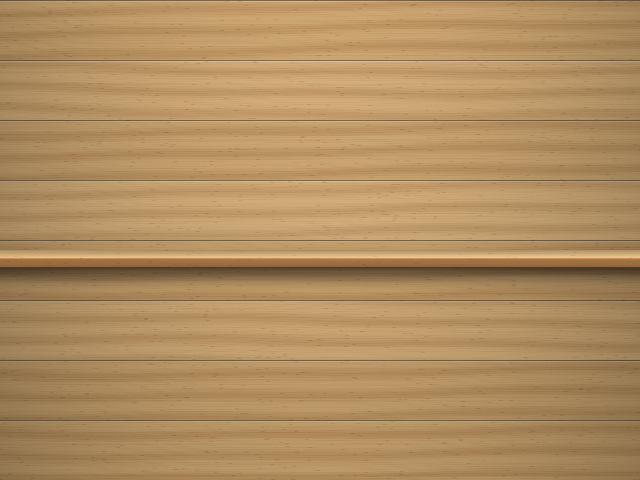
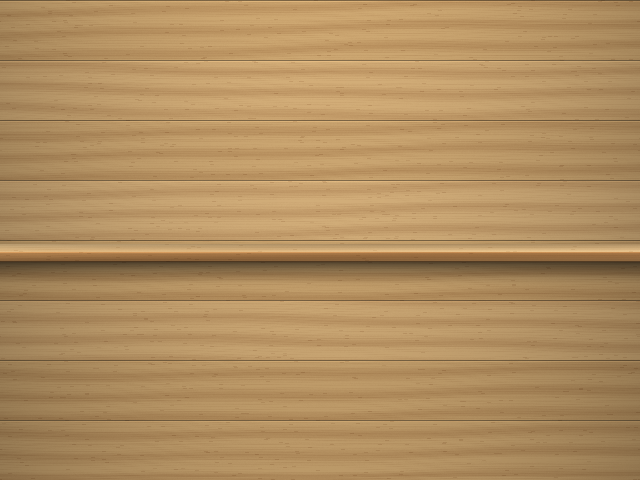
Themes: Bookshelf's shelves sit under Home's rows again (the covers moved down to y 30 and are drawn 104 high, the channels' rows too) and the shelf view's wall has its shelf where the view's plank is (kShelfY, 248), now named in make_bookshelf_theme.py, which also keeps shelf_grain in its theme.ini

Changed region(s): [[0.0, 0.5, 1.0, 0.5938]]

diff --git a/tools/make_bookshelf_theme.py b/tools/make_bookshelf_theme.py
@@ -39,10 +39,13 @@ RNG = np.random.default_rng(1206)
 # shelf view's walls get the same planks.
 WALL_STATE = {}
 
-# Home's cover rows (wii/menu/gui_gamegrid.cpp: covers 80x112, top 16, 14 apart).
-COVER_ROW_BOTTOMS = (16 + 112, 16 + 112 + 14 + 112)
-# Home's channels: three rows of 84 from y 24, 12 apart (wii/menu/gui_gamegrid.cpp).
-CHANNEL_ROW_BOTTOMS = (24 + 84, 24 + 84 + 12 + 84, 24 + 3 * 84 + 2 * 12)
+# Home's cover rows (wii/menu/gui_gamegrid.cpp: covers 80x112 drawn at
+# kCoverScale, 104 high, from y 30, 12 apart).
+COVER_ROW_BOTTOMS = (30 + 104, 30 + 104 + 12 + 104)
+# Home's channels: three rows of 84 from y 30, 12 apart (wii/menu/gui_gamegrid.cpp).
+CHANNEL_ROW_BOTTOMS = (30 + 84, 30 + 84 + 12 + 84, 30 + 3 * 84 + 2 * 12)
+# The shelf view's plank (kShelfY in wii/menu/gui_shelf.cpp).
+SHELF_VIEW_BOTTOM = 248
 
 INI = """[theme]
 name = Bookshelf
@@ -50,6 +53,7 @@ author = RiftWii
 
 [shape]
 corners = 1
+shelf_grain = yes
 gloss = yes
 # The HOME Menu as iOS 6 drew things (iBooks kept its books on a wooden shelf).
 home_menu = ios6
@@ -282,7 +286,7 @@ def main():
     # was for each wall), only the lower shelf.
     for name, w in (("background_shelf.png", 640), ("background_shelf_wide.png", 856)):
         RNG.bit_generator.state = WALL_STATE[w]
-        Image.fromarray(background(w, shelves=COVER_ROW_BOTTOMS[1:])).save(OUT / name, optimize=True)
+        Image.fromarray(background(w, shelves=(SHELF_VIEW_BOTTOM,))).save(OUT / name, optimize=True)
     # And with none, for the other screens.
     for name, w in (("background_plain.png", 640), ("background_plain_wide.png", 856)):
         RNG.bit_generator.state = WALL_STATE[w]
